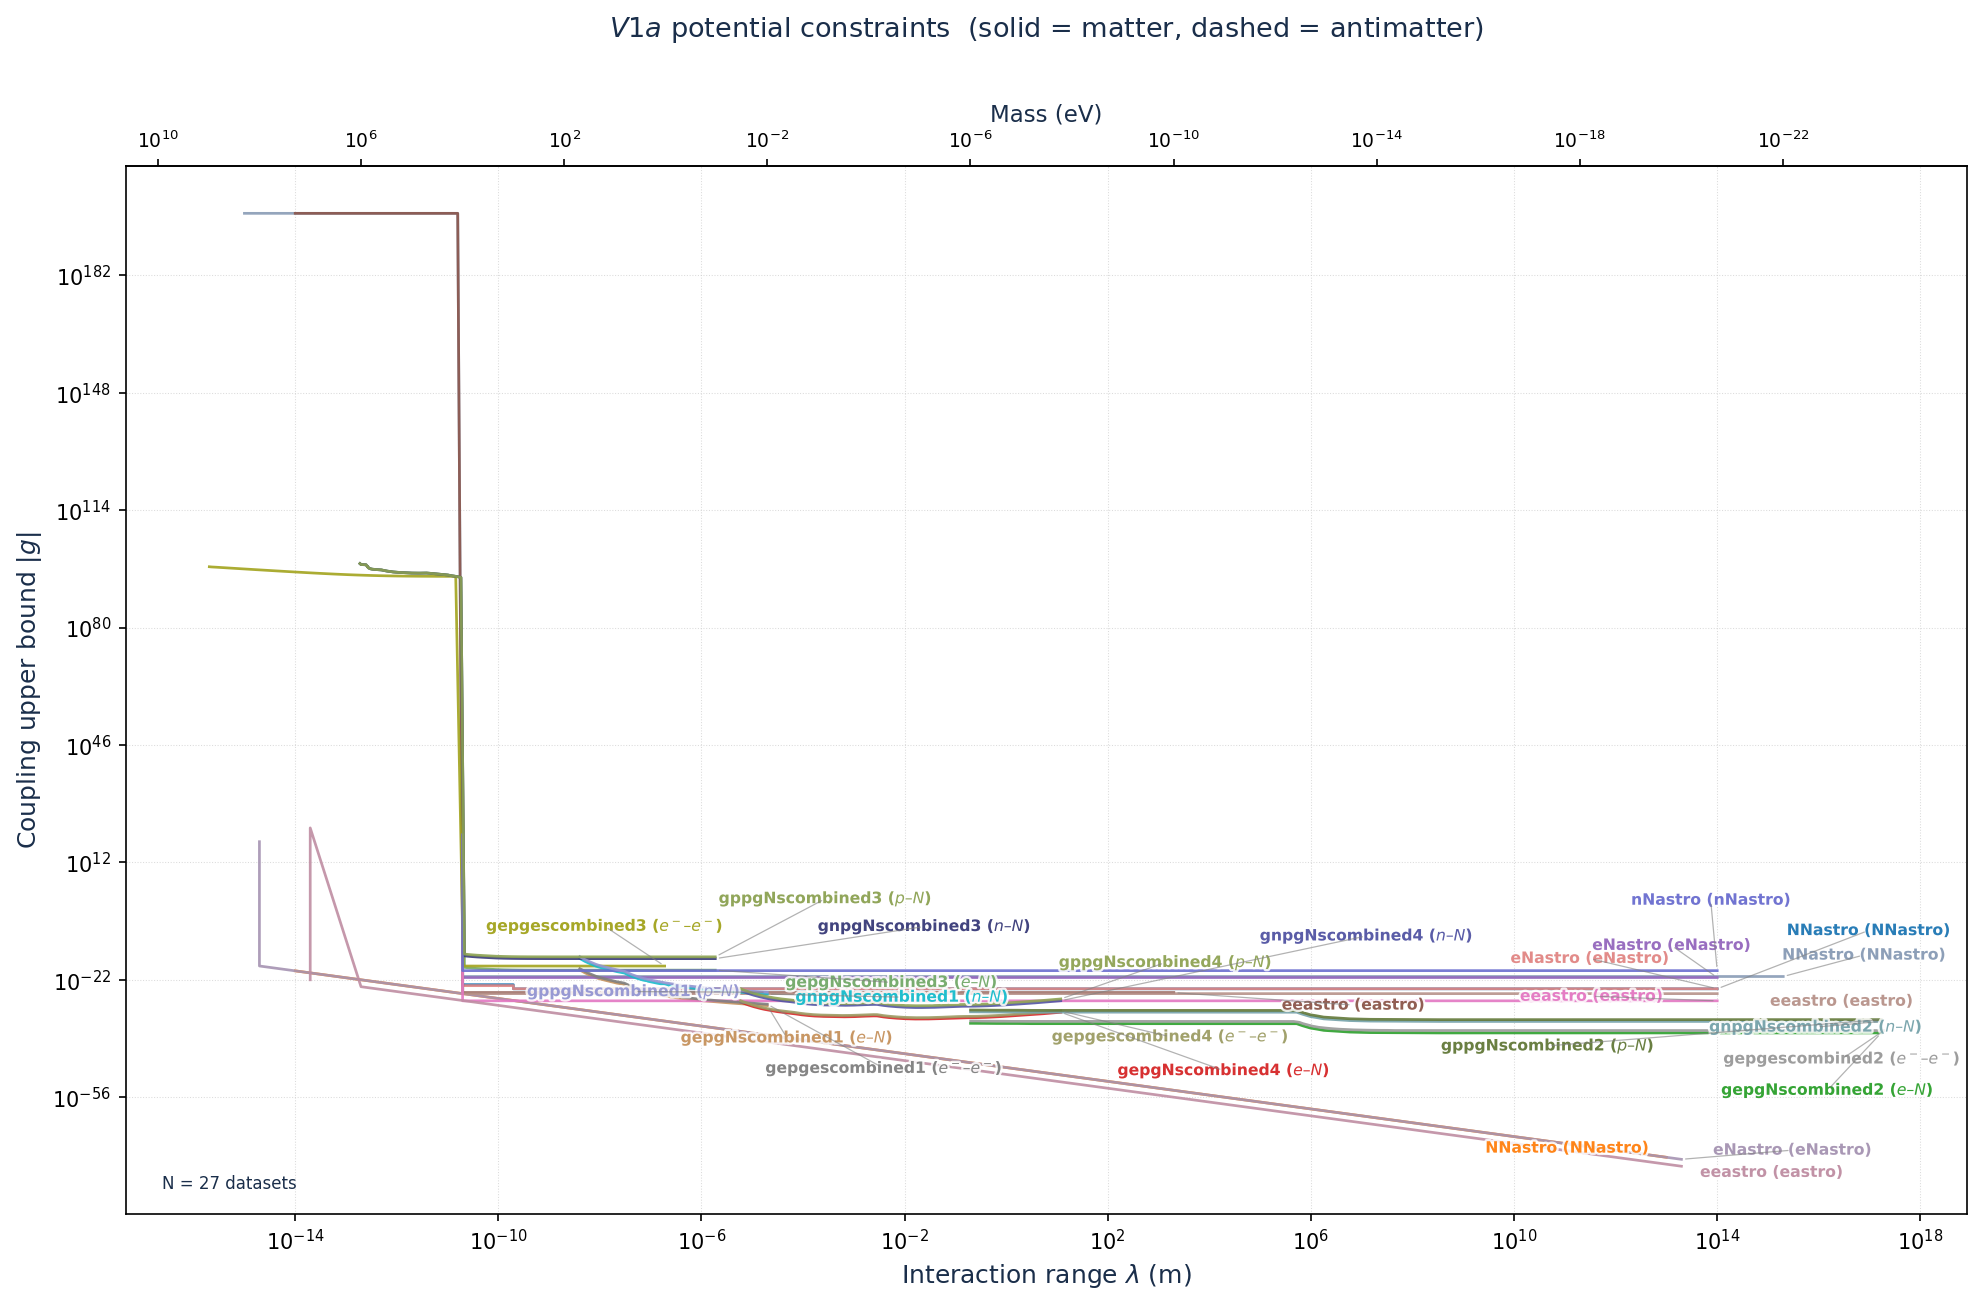
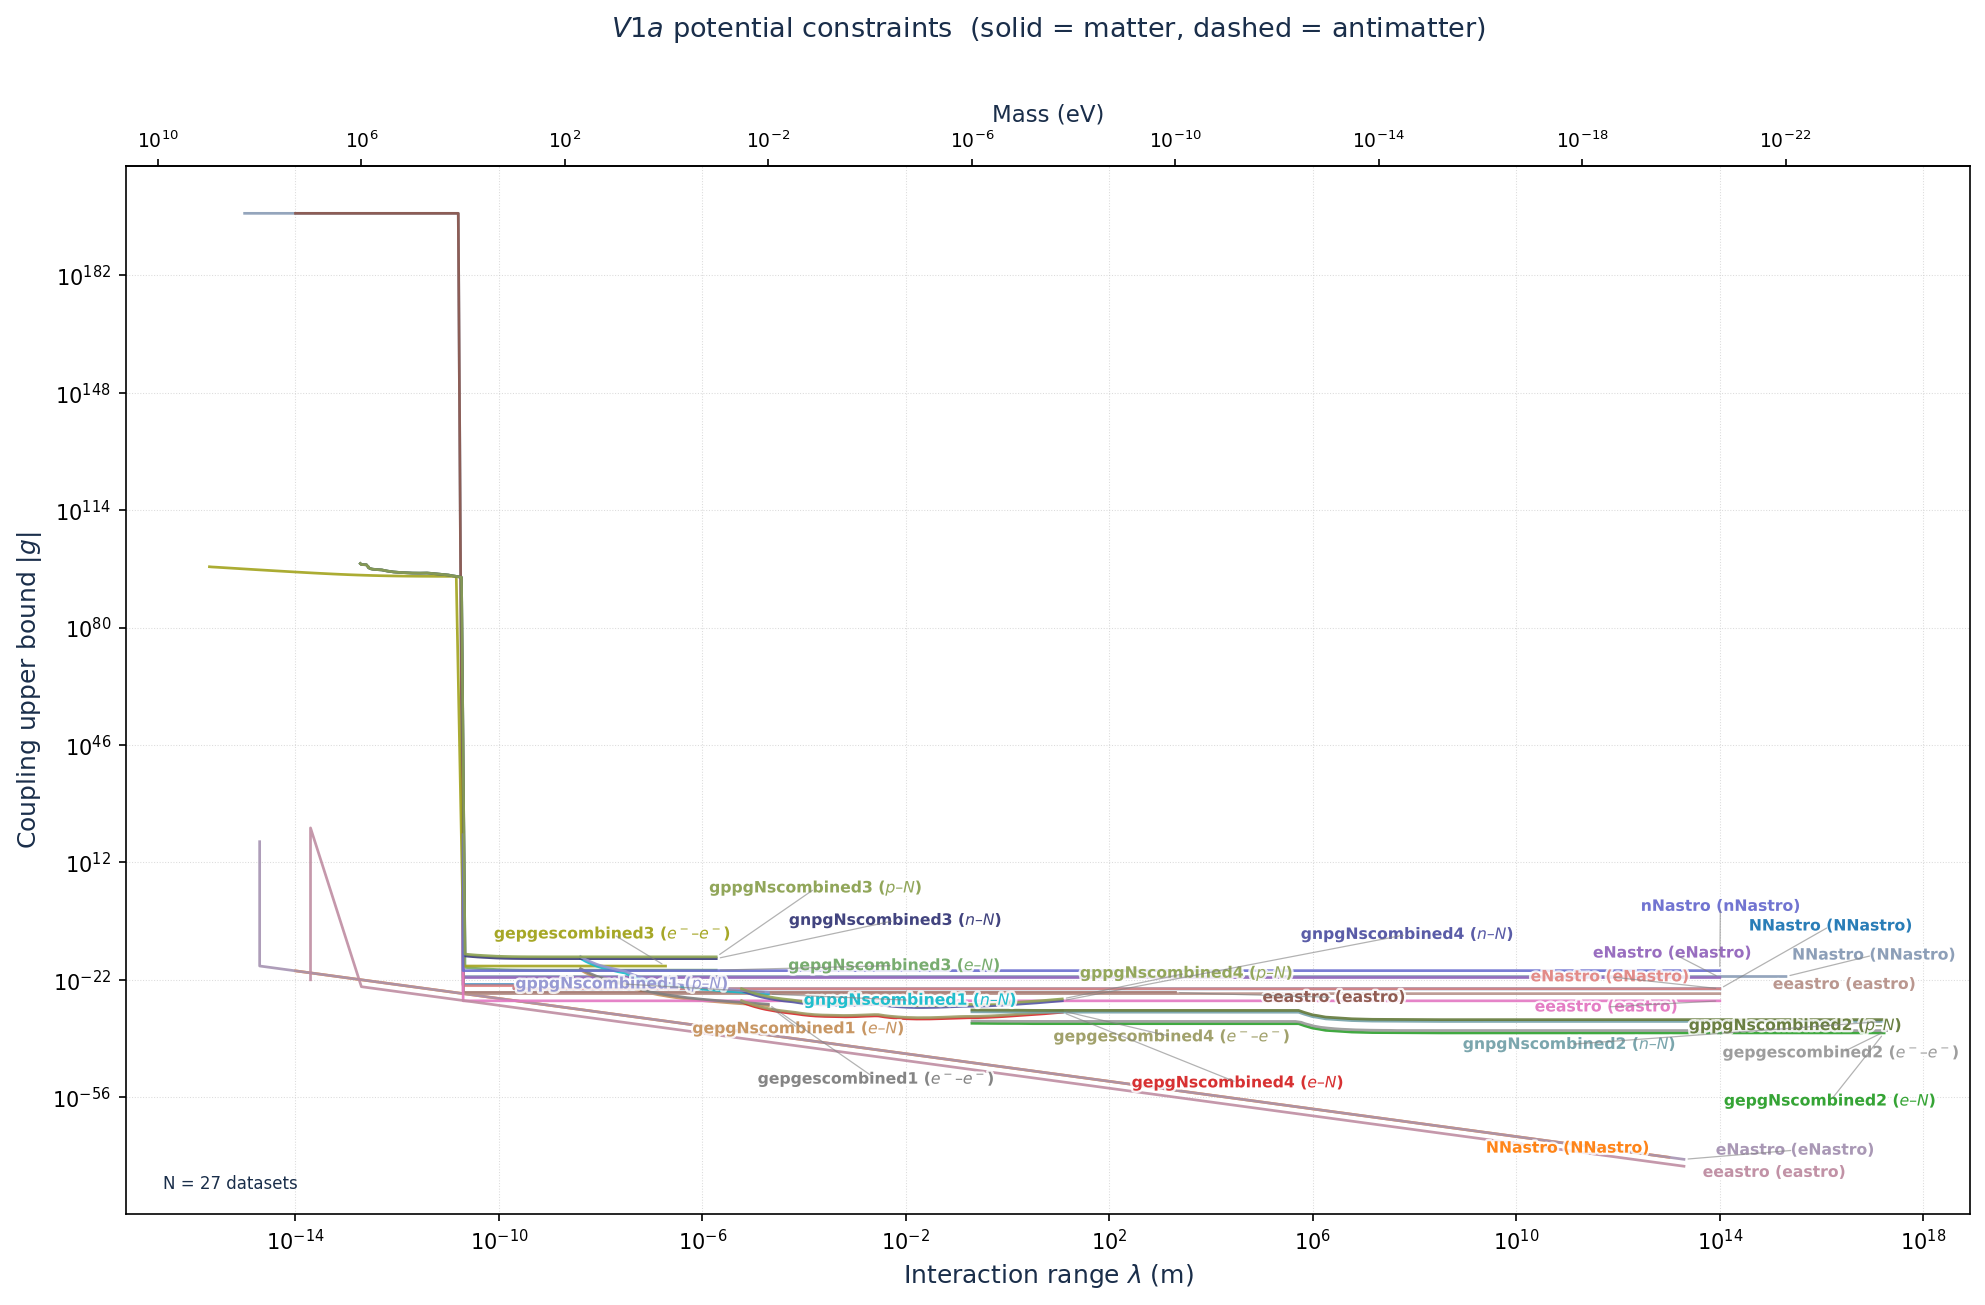
feat: update .gitignore to include additional personal notes; add generate_progress_summary script

diff --git a/scripts/generate_progress_summary.py b/scripts/generate_progress_summary.py
@@ -1,0 +1,259 @@
+#!/usr/bin/env python3
+"""Generates spindep_progress_summary.pdf — a short progress report for the supervisor.
+
+Not part of the analysis pipeline; run manually before a supervisor meeting:
+    python3 scripts/generate_progress_summary.py
+"""
+from pathlib import Path
+
+from reportlab.lib.pagesizes import A4
+from reportlab.lib import colors
+from reportlab.lib.units import cm
+from reportlab.lib.styles import ParagraphStyle
+from reportlab.lib.enums import TA_CENTER, TA_LEFT
+from reportlab.platypus import (
+    SimpleDocTemplate, Paragraph, Spacer, Table, TableStyle, HRFlowable,
+)
+
+ROOT = Path(__file__).resolve().parent.parent
+OUTPUT = ROOT / "spindep_progress_summary.pdf"
+
+NAVY    = colors.HexColor("#1a2e4a")
+STEEL   = colors.HexColor("#2d6a9f")
+CRIMSON = colors.HexColor("#b03a2e")
+LIGHT   = colors.HexColor("#f4f6f9")
+MID     = colors.HexColor("#dce3ed")
+MUTED   = colors.HexColor("#6b7280")
+INK     = colors.HexColor("#2c2c2c")
+WHITE   = colors.white
+
+PAGE_W, PAGE_H = A4
+MARGIN = 1.8 * cm
+
+styles = {
+    "title": ParagraphStyle("title", fontSize=17, leading=21, textColor=NAVY,
+                             fontName="Helvetica-Bold", alignment=TA_CENTER, spaceAfter=4),
+    "subtitle": ParagraphStyle("subtitle", fontSize=10.5, leading=14, textColor=STEEL,
+                                fontName="Helvetica-Bold", alignment=TA_CENTER, spaceAfter=10),
+    "author": ParagraphStyle("author", fontSize=9.5, leading=13, textColor=MUTED,
+                              fontName="Helvetica", alignment=TA_CENTER, spaceAfter=14),
+    "h2": ParagraphStyle("h2", fontSize=12.5, leading=16, textColor=NAVY,
+                          fontName="Helvetica-Bold", spaceBefore=12, spaceAfter=5),
+    "h3": ParagraphStyle("h3", fontSize=10, leading=13, textColor=STEEL,
+                          fontName="Helvetica-Bold", spaceBefore=8, spaceAfter=2),
+    "body": ParagraphStyle("body", fontSize=9.3, leading=13.5, textColor=INK,
+                            fontName="Helvetica", spaceAfter=6, alignment=TA_LEFT),
+    "num_item": ParagraphStyle("num_item", fontSize=9.3, leading=13.5, textColor=INK,
+                                fontName="Helvetica", spaceAfter=7, leftIndent=10),
+    "table_head": ParagraphStyle("table_head", fontSize=9, leading=11, textColor=WHITE,
+                                  fontName="Helvetica-Bold", alignment=TA_CENTER),
+    "table_cell": ParagraphStyle("table_cell", fontSize=9, leading=11, textColor=INK,
+                                  fontName="Helvetica", alignment=TA_CENTER),
+    "footnote": ParagraphStyle("footnote", fontSize=7.8, leading=10.5, textColor=MUTED,
+                                fontName="Helvetica-Oblique", spaceBefore=6),
+}
+
+
+def P(text, style="body"):
+    return Paragraph(text, styles[style])
+
+
+def rule(color=MID, thickness=0.8, space_before=2, space_after=8):
+    return HRFlowable(width="100%", thickness=thickness, color=color,
+                       spaceBefore=space_before, spaceAfter=space_after)
+
+
+def build(figures: dict):
+    doc = SimpleDocTemplate(
+        str(OUTPUT), pagesize=A4,
+        leftMargin=MARGIN, rightMargin=MARGIN, topMargin=MARGIN, bottomMargin=MARGIN,
+        title="SPINDEP Progress Summary", author="Oyewo Temidayo Solomon",
+    )
+    s = []
+
+    s.append(P("Unified Constraint Framework for Exotic Spin-Dependent Interactions:<br/>"
+               "Matter–Antimatter Sector Comparison", "title"))
+    s.append(P("Progress Summary for Prof. O. E. Oyewande", "subtitle"))
+    s.append(P("Oyewo Temidayo Solomon &bull; Department of Physics, University of Ibadan", "author"))
+    s.append(rule(color=NAVY, thickness=1.2))
+
+    s.append(P("The Essence", "h2"))
+    s.append(P(
+        "This project builds a translation layer between two ways of describing possible new physics "
+        "that do not normally talk to each other: the relativistic Standard Model Extension (SME), where "
+        "violations of Lorentz and CPT symmetry are naturally written down, and the non-relativistic "
+        "Dobrescu–Mocioiu (DM) potentials that laboratory experiments actually measure. That translation "
+        "is then used to ask — systematically, across the whole compiled experimental literature, rather "
+        "than for one channel at a time — exactly how much of that translated space can currently be "
+        "tested with both matter and antimatter data, and where it cannot."))
+
+    s.append(P("What I Am Solving", "h2"))
+    s.append(P(
+        "CPT invariance (particles and antiparticles obeying identical physics under combined charge, "
+        "parity, and time-reversal conjugation) is one of the few symmetries a relativistic quantum field "
+        "theory cannot give up without also giving up locality or Lorentz invariance. Testing it for exotic, "
+        "spin-dependent “fifth forces” requires comparing a matter-sector bound on some hypothetical "
+        "interaction against the antimatter-sector bound on that same interaction. Before this project, "
+        "doing that meant manually hunting through decades of scattered papers — torsion balances, "
+        "Casimir-force measurements, atomic and molecular spectroscopy, co-magnetometers, neutron "
+        "scattering, antiprotonic helium spectroscopy, collider searches — each reporting bounds in its "
+        "own units and conventions, with no systematic way to know whether a matter–antimatter comparison "
+        "was even possible for a given channel, and no principled way to tell a genuine symmetry-violation "
+        "signal apart from an ordinary difference in experimental sensitivity."))
+    s.append(P(
+        "This project solves that by building the infrastructure to ask the question properly: a "
+        "standardised database of the existing bounds, software that automatically identifies which "
+        "matter- and antimatter-sector measurements are actually comparable, and a statistically rigorous "
+        "asymmetry measure that does not confuse sensitivity gaps with physics."))
+
+    s.append(P("What I Am Doing", "h2"))
+    s.append(P("Concretely, the work follows five objectives, stated in the thesis introduction and "
+               "pursued in this order:", "body"))
+    objectives_doing = [
+        ("Derive the SME → DM mapping.",
+         "Connect the relativistic SME fermion-sector coefficients (bμ, Hμν, dμν) to the "
+         "non-relativistic DM coupling structures (gₛ, gₚ, gᵥ, gₐ) by hand, using the "
+         "Foldy–Wouthuysen transformation — not citing the mapping from elsewhere, deriving it, so "
+         "that every sign and convention in the final translation table is independently checked rather "
+         "than inherited."),
+        ("Compile and standardise a unified constraint database.",
+         f"Digitise and standardise, onto common units and a common interaction-range grid, every "
+         f"experimental constraint dataset that could be assembled across the sixteen DM potential types "
+         f"— {figures['total']} datasets in total, drawn from nitrogen-vacancy-centre magnetometry, "
+         f"torsion pendulums, atomic and molecular spectroscopy, and antimatter experiments among others."),
+        ("Define and compute a CPT asymmetry parameter.",
+         "Formally define Aα, the fractional difference between a matter-sector and an antimatter-sector "
+         "coupling bound on the same interaction, and compute it with a proper statistical treatment — "
+         "not a single naive chi-squared, but a weighted test, an autocorrelation-corrected effective "
+         "degrees-of-freedom estimate, and a bootstrap confidence interval — for every channel where a "
+         "comparison is possible."),
+        ("Map where that comparison is, and is not, currently possible.",
+         "A systematic gap analysis across all sixteen potentials and every fermion-pair sector, "
+         "identifying exactly which channels have matter- and antimatter-sector data that can be compared "
+         "today, and which do not."),
+        ("Turn the gap map into concrete experimental recommendations.",
+         "Use the gap analysis to identify which future measurements would do the most to close the "
+         "matter–antimatter testing gap, rather than simply calling for “more precision” everywhere."),
+    ]
+    for i, (head, body) in enumerate(objectives_doing, 1):
+        s.append(P(f"<b>{i}. {head}</b><br/>{body}", "num_item"))
+
+    s.append(P("What I Have Done So Far", "h2"))
+    s.append(P(
+        "All five objectives above have working results; two are complete, three have a defined and "
+        "mostly-executed scope with one open theoretical point still being resolved.", "body"))
+
+    s.append(P("SME → DM derivation (Objective 1).", "h3"))
+    s.append(P(
+        "The Foldy–Wouthuysen reduction is complete and hand-verified for bμ and Hμν. The dμν "
+        "derivation is complete in structure and matches the literature (Kostelecký &amp; Lane, 1999) "
+        "exactly for its mass-enhanced piece; the momentum-dependent pieces currently show the correct "
+        "operator structure but an unresolved overall sign, traced to a wavefunction-renormalisation step "
+        "in the kinetic sector not yet included in my equation-of-motion-level treatment. This is stated "
+        "as an open limitation in the thesis rather than papered over, and does not affect any of the "
+        "results below, which use bμ and Hμν only.", "body"))
+
+    s.append(P("Constraint database (Objective 2).", "h3"))
+    s.append(P(
+        f"{figures['total']} datasets compiled and standardised across all sixteen DM potentials. The "
+        f"classification pipeline (which potential, which fermion sector, matter or antimatter) was "
+        f"independently re-verified this month: a parser bug that misread coupling-type labels as author "
+        f"names was found and fixed, a set of 11 previously unclassified datasets was correctly resolved "
+        f"to potential V1 via a directory-based fallback, and two antimatter-sector datasets (antiprotonic "
+        f"helium and the ddμ+ molecular ion, both verified against Cong et al. 2025) that were not being "
+        f"counted as antimatter at all were found and corrected. That verification has since been made "
+        f"permanent rather than a one-off manual check: content-based deduplication "
+        f"(<font face='Helvetica-Oblique'>deduplicate_by_content</font>) is now built into the plotting, "
+        f"gap-analysis, and API layers, so datasets with identical underlying CSV content collapse "
+        f"automatically to a single independent measurement everywhere the count matters. The current, "
+        f"verified total is {figures['antimatter']} antimatter-sector datasets against "
+        f"{figures['matter']} matter-sector datasets.", "body"))
+
+    s.append(P("Asymmetry computation (Objective 3).", "h3"))
+    s.append(P(
+        f"Aα computed, with the full statistical treatment described above, for {figures['pairs']} matched "
+        f"matter–antimatter pairs — the complete set the database currently supports. Every pair is "
+        f"statistically significant after the autocorrelation correction. The central methodological "
+        f"finding is that this significance alone is not evidence of CPT violation: a large Aα computed "
+        f"from one-sided upper bounds is, by construction, equally consistent with an ordinary sensitivity "
+        f"gap between the two experiments being compared. This is shown formally and confirmed "
+        f"empirically — a CPT-even coupling pair in the database shows an asymmetry just as large as the "
+        f"CPT-odd pairs, which would not be true if the asymmetry were tracking real symmetry violation "
+        f"rather than measurement precision.", "body"))
+
+    s.append(P("Gap analysis (Objective 4).", "h3"))
+    s.append(P(
+        f"Complete for the current database: a full potential-by-sector coverage map has been produced. "
+        f"Only {figures['antimatter']} of {figures['total']} datasets touch an antimatter sector at all, "
+        f"concentrated almost entirely in three channels (electron–antiproton, electron–positron, "
+        f"electron–antimuon); {figures['zero_cov']} of the {figures['potentials_with_data']} populated "
+        f"potential types have zero antimatter-sector coverage despite substantial matter-sector data. "
+        f"The coverage figures were regenerated this month with the deduplication logic above applied "
+        f"consistently, so per-potential dataset counts and coverage ratios now reflect independent "
+        f"measurements rather than raw file counts.", "body"))
+
+    s.append(P("Experimental recommendations (Objective 5).", "h3"))
+    s.append(P(
+        "Drawn directly from the gap map: priority is given to sectors and potentials with large "
+        "matter-sector coverage and zero antimatter-sector coverage, since a first antimatter measurement "
+        "there opens an entire channel to comparison, rather than incrementally improving a channel that "
+        "is already comparable.", "body"))
+
+    s.append(P("Supporting software.", "h3"))
+    s.append(P(
+        "Built SPINDEP, a reproducible analysis pipeline (parsing, unit standardisation, pair-matching, "
+        "asymmetry statistics, gap analysis, figure and report generation) plus a web GUI, so the entire "
+        "analysis can be re-run end to end from the raw compiled datasets rather than depending on manual, "
+        "one-off calculations. This month's work hardened that pipeline further: content-based "
+        "deduplication is now applied consistently across the plotting, gap-analysis and API layers "
+        "instead of being checked by hand, and potential-type extraction now falls back to the containing "
+        "directory name when a filename alone is ambiguous.", "body"))
+
+    s.append(P("Key figures at a glance", "h2"))
+    table_data = [
+        [P("Quantity", "table_head"), P("Value", "table_head")],
+        [P("Experimental constraint datasets compiled", "table_cell"), P(str(figures["total"]), "table_cell")],
+        [P("Antimatter-sector datasets", "table_cell"), P(str(figures["antimatter"]), "table_cell")],
+        [P("Matter-sector datasets", "table_cell"), P(str(figures["matter"]), "table_cell")],
+        [P("Matched matter–antimatter pairs analysed", "table_cell"), P(str(figures["pairs"]), "table_cell")],
+        [P("DM potentials with data (of 16 catalogued)", "table_cell"), P(str(figures["potentials_with_data"]), "table_cell")],
+        [P("Potentials with zero antimatter-sector coverage", "table_cell"),
+         P(f"{figures['zero_cov']} of {figures['potentials_with_data']}", "table_cell")],
+    ]
+    tbl = Table(table_data, colWidths=[11.5 * cm, 6 * cm])
+    tbl.setStyle(TableStyle([
+        ("BACKGROUND", (0, 0), (-1, 0), NAVY),
+        ("BACKGROUND", (0, 1), (-1, -1), LIGHT),
+        ("ROWBACKGROUNDS", (0, 1), (-1, -1), [WHITE, LIGHT]),
+        ("GRID", (0, 0), (-1, -1), 0.5, MID),
+        ("TOPPADDING", (0, 0), (-1, -1), 6),
+        ("BOTTOMPADDING", (0, 0), (-1, -1), 6),
+        ("ALIGN", (1, 0), (1, -1), "CENTER"),
+    ]))
+    s.append(tbl)
+    s.append(P(
+        "All figures above were re-verified live against the current codebase and dataset registry, not "
+        "carried over from earlier drafts.", "footnote"))
+
+    doc.build(s)
+
+
+if __name__ == "__main__":
+    import argparse
+    parser = argparse.ArgumentParser()
+    parser.add_argument("--total", type=int, required=True)
+    parser.add_argument("--antimatter", type=int, required=True)
+    parser.add_argument("--matter", type=int, required=True)
+    parser.add_argument("--pairs", type=int, required=True)
+    parser.add_argument("--potentials-with-data", type=int, required=True)
+    parser.add_argument("--zero-cov", type=int, required=True)
+    args = parser.parse_args()
+    build({
+        "total": args.total,
+        "antimatter": args.antimatter,
+        "matter": args.matter,
+        "pairs": args.pairs,
+        "potentials_with_data": args.potentials_with_data,
+        "zero_cov": args.zero_cov,
+    })
+    print(f"Wrote {OUTPUT}")

diff --git a/spindep/src/parser.py b/spindep/src/parser.py
@@ -323,10 +323,6 @@ FILENAME_SECTOR_OVERRIDES = {
     "1aNNastro_m_abs":           ("NNastro", False),
     "1anNastro_m_abs":           ("nNastro", False),
     "1apNastro_m_abs":           ("pNastro", False),
-
-    # ── Salumbides exotic ─────────────────────────────────────
-    "Salumbides_antipHe_2014":   ("antipHe", False),
-    "Salumbides_ddmu_2014":      ("ddmu",    False),
 }
 
 
